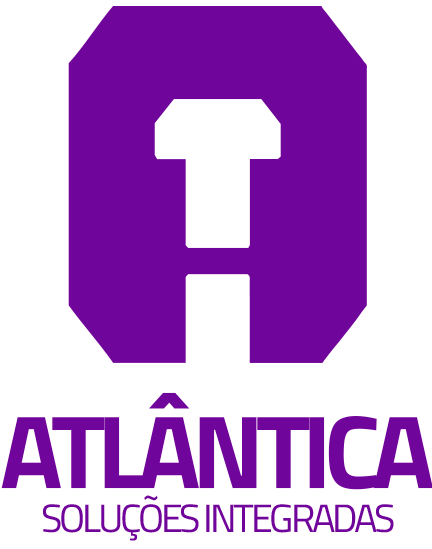
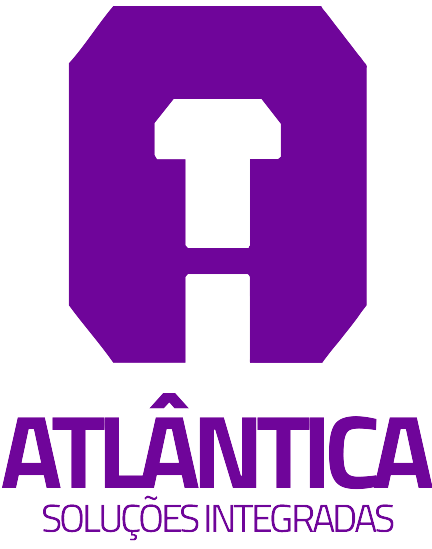
corrigido o footer

diff --git a/src/app/components/header/header.component.html b/src/app/components/header/header.component.html
@@ -1,7 +1,7 @@
 <div class="position">
   <nav class="navbar navbar-expand-lg">
     <div class="container">
-      <img src="../../../assets/logo-roxa.png" width="50" height="50" alt="logo"><p class="navbar-brand">Atlântica Soluções <br> Integradas</p>
+      <img src="../../../assets/logo.png" width="50" height="50" alt="logo"><p class="navbar-brand">Atlântica Soluções <br> Integradas</p>
       <button class="navbar-toggler" type="button" data-bs-toggle="collapse" data-bs-target="#navbarSupportedContent" aria-controls="navbarSupportedContent" aria-expanded="false" aria-label="Toggle navigation">
         <span class="navbar-toggler-icon"></span>
       </button>

diff --git a/src/app/components/footer/footer.component.scss b/src/app/components/footer/footer.component.scss
@@ -1,7 +1,7 @@
 .footer {
-  margin-top: 50px;
-  background-color: #fff;
-  color: #5F0C96;
+  padding-top: 50px;
+  background-color: #161616;
+  color: #fff;
     display: flex;
     flex-direction: column;
     align-items: flex-start;
@@ -20,7 +20,7 @@
       margin: 0;
     }
     a {
-      color: #5F0C96;
+      color: #fff;
       text-decoration: none;
       &:hover {
         text-decoration: underline;

diff --git a/src/app/components/footer/footer.component.html b/src/app/components/footer/footer.component.html
@@ -3,7 +3,7 @@
     <div class="row">
       <div class="col-md-6">
         <div class="footer-logo">
-          <img src="../../../assets/banner-footer.png" width="150" height="150" alt="Logo da Atlântica E-commerce">
+          <img src="../../../assets/banner-2-footer.png" width="150" height="150" alt="Logo da Atlântica E-commerce">
         </div>
       </div>
       <div class="col-md-6">
